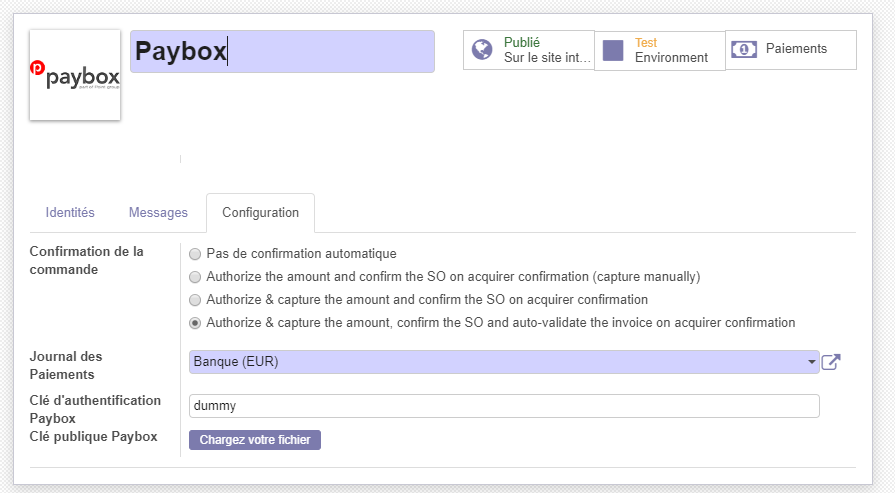
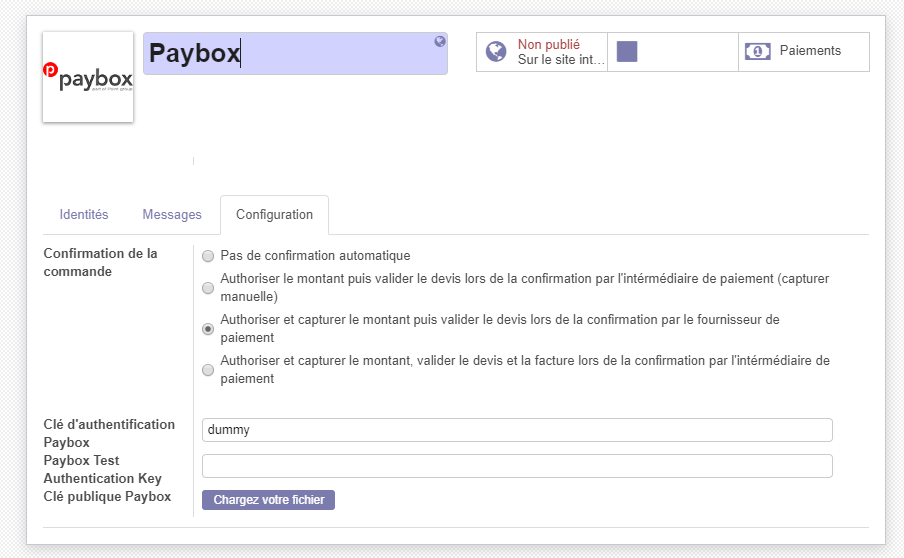
Update translation + update description

Changed region(s): [[0.0, 0.0304, 0.9955, 1.0], [0.1508, 0.3651, 0.362, 0.3955], [0.0603, 0.3651, 0.1207, 0.3955]]

diff --git a/odoo/addons/payment_paybox/static/description/index.html b/odoo/addons/payment_paybox/static/description/index.html
@@ -39,13 +39,17 @@
             <li>Numéro de rang</li>
             <li>Numéro d'identifiant</li>
             <li>Clé d'authentification</li>
+            <li>Clé d'authentification de test</li>
             <li>Clé publique</li>
         </ul>
         <p>Les 3 premières valeurs sont à récupérer sur le backoffice de Paybox.</p>
         <p>
-            La clé d'authentification se génére dans le backoffice de Paybox. Pour cela, une fois dans le backoffice,
-            aller dans le menu "Information" et descendez tout en bas de la page. Vous aurez une interface ressemblant à
-            ceci :
+            La clé d'authentification et la clé d'authentification de test se générent dans les différents backoffice de Paybox
+            (<a href="https://preprod-admin.paybox.com ">Backoffice de test</a> / <a href="https://admin.paybox.com">Backoffice de prod</a>).
+            Il est important de générer les deux clés sur les deux sites pour pouvoir réaliser des paiements
+            de tests et réels en ayant seulement besoin de changer l'environnement de l'intermédiaire.
+            Pour cela, une fois dans le backoffice, aller dans le menu "Information" et descendez tout en bas de la page.
+            Vous aurez une interface ressemblant à ceci :
             <img alt="Génération de la clé d'authentification"
                  src="/payment_paybox/static/description/img/paybox_generate_hmac.png"
                  class="oe_screenshot mb8"
@@ -56,8 +60,8 @@
             la force doit être supérieure à 90%. Une fois choisie, vous pouvez générer la clé en cliquant sur "Générer une clé". <br/>
             Vous devez valider la clé en cliquant sur le bouton "Valider" en bas du cadre. Vous allez recevoir un email
             de confirmation contenant un lien pour activer la clé.<br/>
-            La clé générée se retrouvera dans le champ "Clé".
-            Copiez et collez la dans le champ "Clé d'authentification" dans le backoffice d'Odoo.
+            La clé générée se retrouvera dans le champ "Clé". Copiez et collez la dans le champ adapté dans le backoffice d'Odoo
+            (Si vous avez généré la clé sur le Backoffice Paybox de test : "Clé d'authentification de test", sinon "Clé d'authentification").
         </p>
         <p>
             La clé publique se récupère dans les manuels de Verifone. Rendez-vous sur ce
